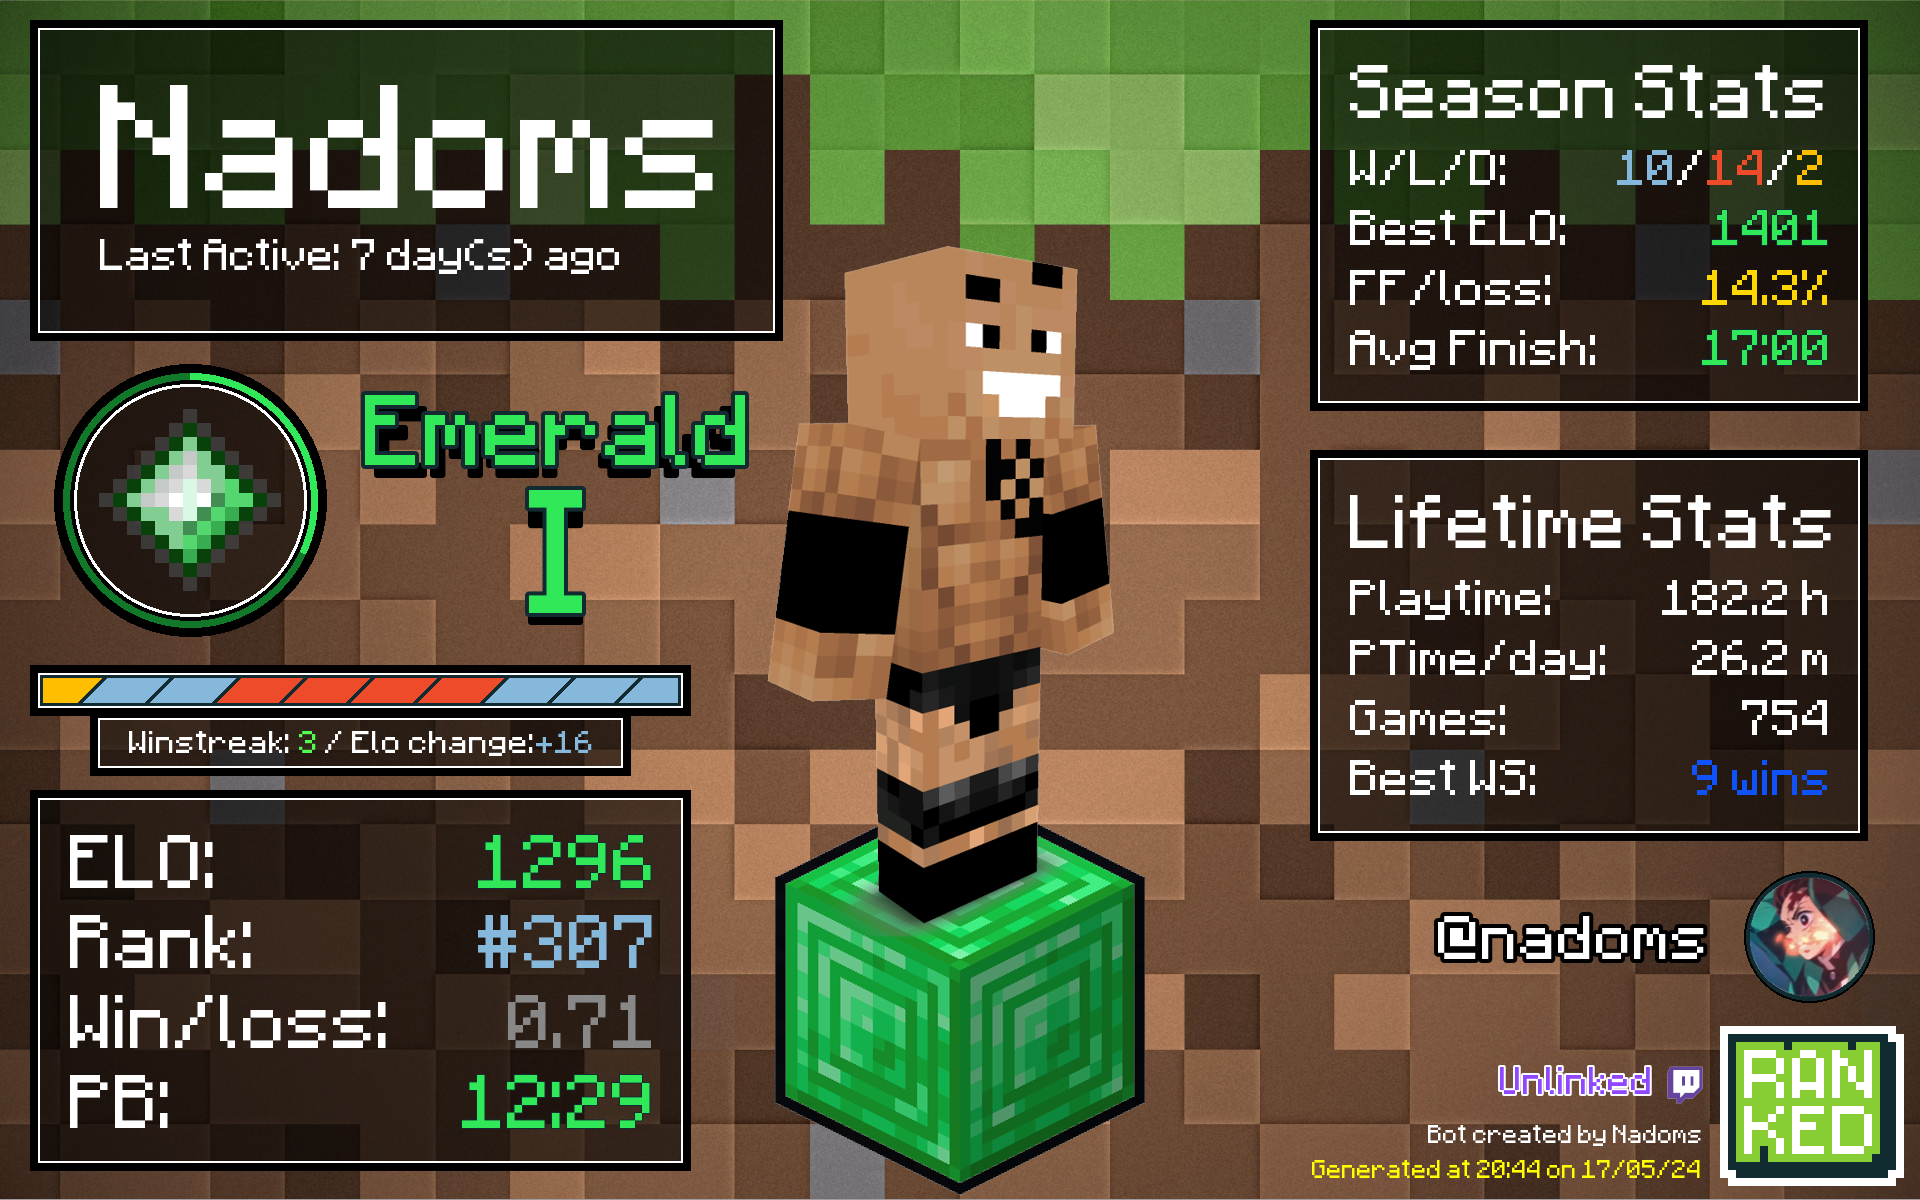
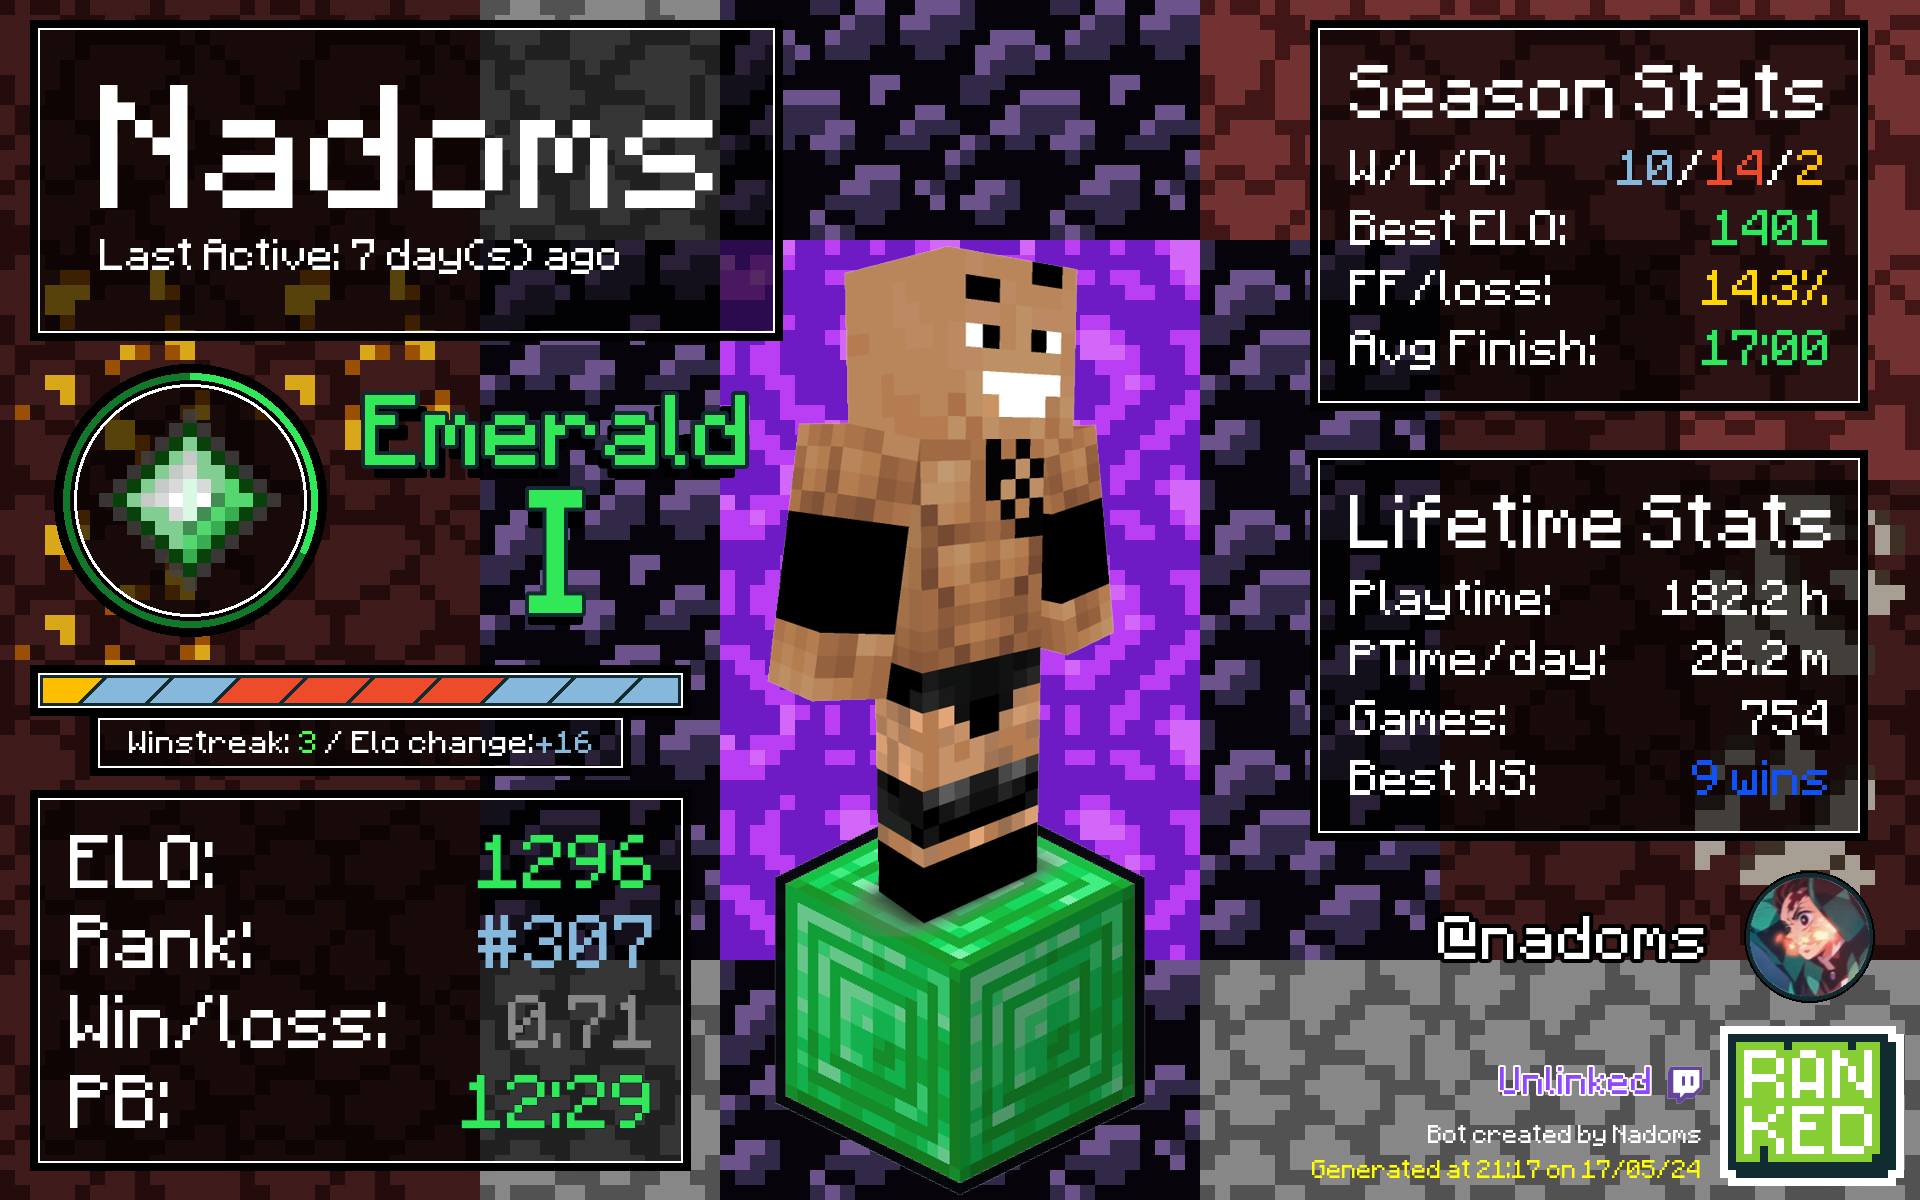
Add card background personlisation

diff --git a/src/bot.py b/src/bot.py
@@ -36,7 +36,7 @@ async def card(interaction: Interaction, input_name: str = SlashOption(
     ), hidden: str = SlashOption(
     "hidden",
     required = False,
-    description="Makes it so only you can see it.",
+    description="Hides my response.",
     default="",
     choices=["True"]
     )):
@@ -118,68 +118,6 @@ async def card(interaction: Interaction, input_name: str = SlashOption(
         update_records("card", interaction.user.id, input_name, hidden, True)
 
 
-@bot.slash_command(name="connect", description="Connects your minecraft account with your discord account.")
-async def connect(interaction: Interaction, input_name: str):
-    
-    uid = str(interaction.user.id)
-    user_exists = False
-    
-    file = path.join("src", "database", "users.json")
-    with open (file, "r") as f:
-        users = json.load(f)
-
-    for user in users["users"]:
-        if uid == user["discord"]:
-            user_exists = True
-        elif input_name.lower() == user["minecraft"].lower():
-            await interaction.response.send_message(f"`{input_name}` is already connected to {bot.get_user(int(user['discord']))}.")
-            update_records("connect", interaction.user.id, input_name, False, False)
-            return
-
-    if not user_exists:
-        new_user = {
-            "minecraft": input_name,
-            "discord": uid,
-            "background": "grass.jpg"
-        }
-        users["users"].append(new_user)
-    else:
-        user["minecraft"] = input_name
-
-    with open (file, "w") as f:
-        users_json = json.dumps(users, indent=4)
-        f.write(users_json)
-    
-    await interaction.response.send_message(f"`{input_name}` has been connected to your discord!")
-    update_records("connect", interaction.user.id, input_name, False, not user_exists)
-    return
-
-
-@bot.slash_command(name="disconnect", description="Disconnects your minecraft account from your discord account.")
-async def disconnect(interaction: Interaction):
-    
-    uid = str(interaction.user.id)
-    
-    file = path.join("src", "database", "users.json")
-    with open (file, "r") as f:
-        users = json.load(f)
-
-    for user in users["users"]:
-        if uid == user["discord"]:
-            users["users"].remove(user)
-
-            with open (file, "w") as f:
-                print(users)
-                users_json = json.dumps(users, indent=4)
-                f.write(users_json)
-            await interaction.response.send_message(f"`{user['minecraft']}` has been disconnected from your discord.")
-            update_records("disconnect", interaction.user.id, user['minecraft'], False, True)
-            return
-        
-    await interaction.response.send_message(f"You are not connected. Please connect your minecraft account with </connect:1149442234513637448> to your discord.")
-    update_records("disconnect", interaction.user.id, "Unknown", False, False)
-
-
 @bot.slash_command(name="plot", description="Illustrates a graph for the player + metric that you choose.")
 async def plot(interaction: Interaction, input_name: str = SlashOption(
     "name",
@@ -201,7 +139,7 @@ async def plot(interaction: Interaction, input_name: str = SlashOption(
     ), hidden: str = SlashOption(
     "hidden",
     required = False,
-    description="Makes it so only you can see it.",
+    description="Hides my response.",
     default="",
     choices=["True"]
     )):
@@ -278,58 +216,6 @@ async def plot(interaction: Interaction, input_name: str = SlashOption(
         update_records("plot", interaction.user.id, input_name, hidden, True)
 
 
-@bot.slash_command(name="help", description="Don't know where to start?")
-async def help(interaction: Interaction,
-    hidden: str = SlashOption(
-    "hidden",
-    required = False,
-    description="Makes it so only you can see it.",
-    default="",
-    choices=["True"]
-    )):
-    
-    if hidden:
-        hidden = True
-    else:
-        hidden = False
-
-    embed = nextcord.Embed(
-        title = "Ranked Cards - Help and Commands",
-        description = "Thank you for using the MCSR Ranked Cards bot, made by Nadoms. Any questions, just dm me :)\nThese are the current available commands:",
-        colour = nextcord.Colour.yellow()
-    )
-    
-    embed.set_thumbnail(url=r"https://mcsrranked.com/_next/image?url=%2Ftest1.png&w=640&q=75")
-    embed.add_field(
-        name = "/card",
-        value = "`Options: Minecraft username, hide card`\n`Defaults: Connected user, public`\nGenerates the ***statistics card*** for the player that you input",
-        inline = False
-    )
-    embed.add_field(
-        name = "/plot",
-        value = "`Options: Minecraft username, type of data [Elo / Completion time], season [Lifetime / 1/2/3/4], hide graph`\n`Defaults: Connected user, Elo, S4, public`\n***Plots a graph*** for the type of data (Elo / Completion time) across the timeframe (Season 1/2/3/4 / Lifetime) and for the player you specify",
-        inline = False
-    )
-    embed.add_field(
-        name = "/analyse",
-        value = "`Options: Match ID`\nMatch analysis command to be ***coming soon***...",
-        inline = False
-    )
-    embed.add_field(
-        name = "/connect",
-        value = "`Options: Minecraft username`\n***Connects your discord account*** to a Minecraft username so that you don't have to write it when doing the other commands",
-        inline = False
-    )
-    embed.add_field(
-        name = "/disconnect",
-        value = "***Removes the connected Minecraft account*** from your discord, useful if you changed name or switched account",
-        inline = False
-    )
-    
-    await interaction.send(embed=embed, ephemeral=hidden)
-    update_records("help", interaction.user.id, "None", hidden, False)
-
-
 @bot.slash_command(name="analyse", description="Performs an analysis on your most recent match, or the match specified.")
 async def analyse(interaction: Interaction, match_id: str = SlashOption(
     "match_id",
@@ -339,7 +225,7 @@ async def analyse(interaction: Interaction, match_id: str = SlashOption(
     ), hidden: str = SlashOption(
     "hidden",
     required = False,
-    description="Makes it so only you can see it.",
+    description="Hides my response.",
     default="",
     choices=["True"]
     )):
@@ -379,7 +265,7 @@ async def analyse(interaction: Interaction, match_id: str = SlashOption(
         img = analysing.main(response, match_id)
     except Exception as e:
         print(e)
-        await interaction.followup.send("An error has occurred. <@298936021557706754> fix it pls")
+        await interaction.followup.send("An error has occurred. <@298936021557706754> fix it pls", ephemeral=hidden)
         update_records("analyse", interaction.user.id, match_id, hidden, False)
         return
 
@@ -388,6 +274,185 @@ async def analyse(interaction: Interaction, match_id: str = SlashOption(
         img = File(f)
     await interaction.followup.send(files=[img])
     update_records("analyse", interaction.user.id, match_id, hidden, True)
+
+
+@bot.slash_command(name="customise", description="Allows you to personalise your card. Only applies to connected users.")
+async def customise(interaction: Interaction, background: str = SlashOption(
+    "background",
+    required = True,
+    description="Your background of choice for your card.",
+    default="Classic",
+    choices=["Classic", "Overworld", "Bastion", "Fortress", "Portal", "Stronghold", "The End"]
+    ), hidden: str = SlashOption(
+    "hidden",
+    required = False,
+    description="Hides my response..",
+    default="",
+    choices=["True"]
+    )):
+    
+    if hidden:
+        hidden = True
+    else:
+        hidden = False
+        
+    input_name = get_name(interaction)
+    if not input_name:
+        await interaction.response.send_message("Please connect your minecraft account to your discord with </connect:1149442234513637448> to customise your card.", ephemeral=hidden)
+        update_records("background", interaction.user.id, background, hidden, False)
+        return
+    
+    uid = str(interaction.user.id)
+    bg_mapping = {
+        "Classic": "grass.jpg",
+        "Overworld": "beach.jpg",
+        "Bastion": "bastion.jpg",
+        "Fortress": "fort.jpg",
+        "Portal": "portal.jpg",
+        "Stronghold": "stronghold.jpg",
+        "The End": "end.jpg"}
+
+    file = path.join("src", "database", "users.json")
+    with open (file, "r") as f:
+        users = json.load(f)
+
+    for user in users["users"]:
+        if uid == user["discord"]:
+            user["background"] = bg_mapping[background]
+            user_exists = True
+            break
+        
+    if not user_exists:
+        await interaction.response.send_message("An error has occurred. <@298936021557706754> fix it pls", ephemeral=hidden)
+        update_records("background", interaction.user.id, background, hidden, False)
+        return
+
+    with open (file, "w") as f:
+        users_json = json.dumps(users, indent=4)
+        f.write(users_json)
+    
+    await interaction.response.send_message(f"Updated your card background to {background}!", ephemeral=hidden)
+    update_records("background", interaction.user.id, background, hidden, True)
+    return
+
+
+@bot.slash_command(name="connect", description="Connects your minecraft account with your discord account.")
+async def connect(interaction: Interaction, input_name: str):
+    
+    uid = str(interaction.user.id)
+    user_exists = False
+    
+    file = path.join("src", "database", "users.json")
+    with open (file, "r") as f:
+        users = json.load(f)
+
+    for user in users["users"]:
+        if uid == user["discord"]:
+            user_exists = True
+        elif input_name.lower() == user["minecraft"].lower():
+            await interaction.response.send_message(f"`{input_name}` is already connected to {bot.get_user(int(user['discord']))}.")
+            update_records("connect", interaction.user.id, input_name, False, False)
+            return
+
+    if not user_exists:
+        new_user = {
+            "minecraft": input_name,
+            "discord": uid,
+            "background": "grass.jpg"
+        }
+        users["users"].append(new_user)
+    else:
+        user["minecraft"] = input_name
+
+    with open (file, "w") as f:
+        users_json = json.dumps(users, indent=4)
+        f.write(users_json)
+    
+    await interaction.response.send_message(f"`{input_name}` has been connected to your discord!")
+    update_records("connect", interaction.user.id, input_name, False, not user_exists)
+    return
+
+
+@bot.slash_command(name="disconnect", description="Disconnects your minecraft account from your discord account.")
+async def disconnect(interaction: Interaction):
+    
+    uid = str(interaction.user.id)
+    
+    file = path.join("src", "database", "users.json")
+    with open (file, "r") as f:
+        users = json.load(f)
+
+    for user in users["users"]:
+        if uid == user["discord"]:
+            users["users"].remove(user)
+
+            with open (file, "w") as f:
+                print(users)
+                users_json = json.dumps(users, indent=4)
+                f.write(users_json)
+            await interaction.response.send_message(f"`{user['minecraft']}` has been disconnected from your discord.")
+            update_records("disconnect", interaction.user.id, user['minecraft'], False, True)
+            return
+        
+    await interaction.response.send_message(f"You are not connected. Please connect your minecraft account with </connect:1149442234513637448> to your discord.")
+    update_records("disconnect", interaction.user.id, "Unknown", False, False)
+
+
+@bot.slash_command(name="help", description="Don't know where to start?")
+async def help(interaction: Interaction,
+    hidden: str = SlashOption(
+    "hidden",
+    required = False,
+    description="Hides my response.",
+    default="",
+    choices=["True"]
+    )):
+    
+    if hidden:
+        hidden = True
+    else:
+        hidden = False
+
+    embed = nextcord.Embed(
+        title = "Ranked Cards - Help and Commands",
+        description = "Thanks for using the MCSR Ranked Cards bot, made by @Nadoms. Any questions, just dm me :)\nThese are the current available commands:",
+        colour = nextcord.Colour.yellow()
+    )
+    
+    embed.set_thumbnail(url=r"https://mcsrranked.com/_next/image?url=%2Ftest1.png&w=640&q=75")
+    embed.add_field(
+        name = "/card",
+        value = "`Options: Minecraft username, hide response`\n`Defaults: Connected user, public`\nGenerates the ***statistics card*** for the player that you input.",
+        inline = False
+    )
+    embed.add_field(
+        name = "/plot",
+        value = "`Options: Minecraft username, type of data [Elo / Completion time], season [Lifetime/1/2/3/4/5], hide response`\n`Defaults: Connected user, Elo, S4, public`\n***Plots a graph*** for the type of data (Elo / Completion time) across the timeframe (Season 1/2/3/4 / Lifetime) and for the player you specify.",
+        inline = False
+    )
+    embed.add_field(
+        name = "/analyse",
+        value = "`Options: Match ID, hide response`\nMatch analysis command to be ***coming soon***...",
+        inline = False
+    )
+    embed.add_field(
+        name = "/customise",
+        value = "`Options: Card background, hide response`\n`Defaults: Classic, public`\n***Customises your card*** how you specify, currently with the background.",
+        inline = False
+    )
+    embed.add_field(
+        name = "/connect",
+        value = "`Options: Minecraft username`\n***Connects your discord account*** to a Minecraft username so that you don't have to write it when doing the other commands.",
+        inline = False
+    )
+    embed.add_field(
+        name = "/disconnect",
+        value = "***Removes the connected Minecraft account*** from your discord, useful if you changed name or switched account.",
+        inline = False
+    )
+    
+    await interaction.send(embed=embed, ephemeral=hidden)
+    update_records("help", interaction.user.id, "None", hidden, True)
     
 
 def get_user_info(response, input_name):
@@ -453,7 +518,7 @@ def update_records(command, caller, callee, hidden, completed):
     stats_file = path.join("src", "database", "stats.json")
 
     with open(calls_file, "a") as f:
-        row = f"\n{command},{caller},{callee},{int(time())},{hidden}"
+        row = f"\n{command},{caller},{callee},{int(time())},{hidden},{completed}"
         f.write(row)
 
     with open(stats_file, "r") as f:
@@ -488,6 +553,9 @@ def update_records(command, caller, callee, hidden, completed):
 
     if command == "help":
         stats["stats"]["helps"] += 1
+
+    if command == "background":
+        stats["stats"]["backgrounds"] += 1
 
     if hidden:
         stats["stats"]["totalHidden"] += 1
